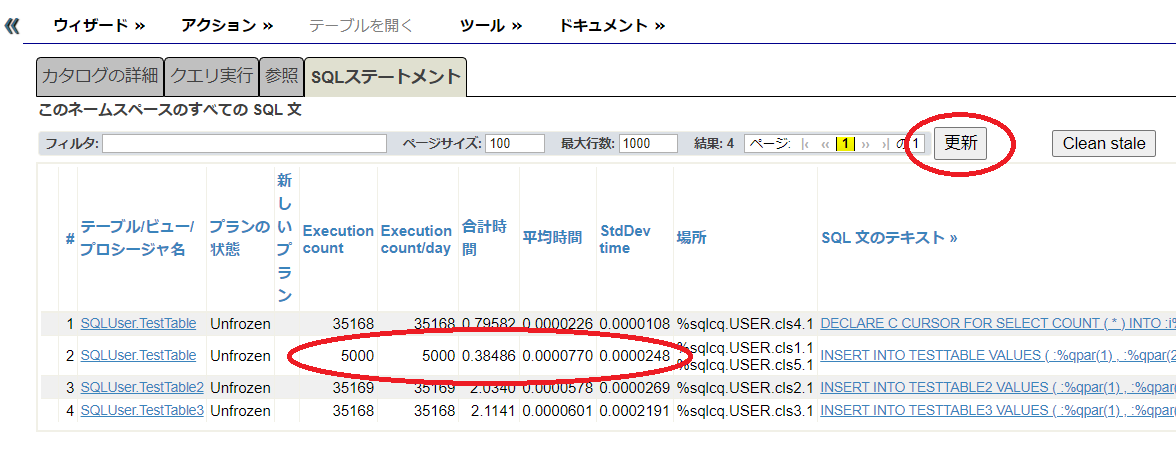
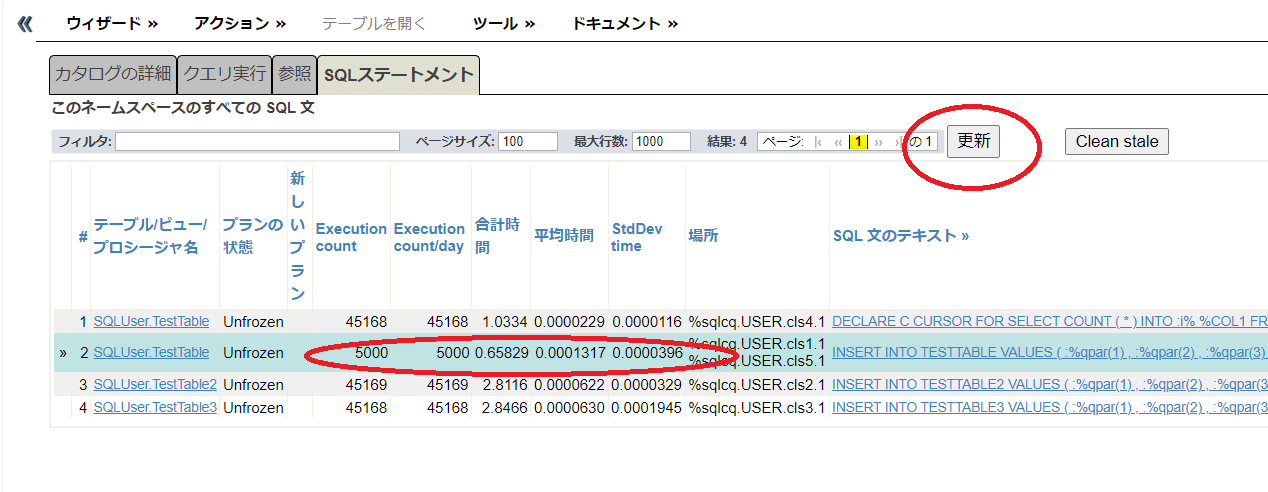
doc

Changed region(s): [[0.0, 0.0302, 1.0, 0.6048], [0.0306, 0.635, 1.0, 0.9071], [0.6429, 0.4536, 0.7959, 0.5443]]

diff --git a/README.MD b/README.MD
@@ -99,9 +99,9 @@ USER>
 1.  管理ポータルで[システムエクスプローラー]->[SQL]と進み、ネームスペースを使用しているデータベースに切り替え、さらに[SQLステートメント]タブを選択し、[更新]ボタンを押す。  これで、今、実行した計測内容が反映される。
 ![sqlstat4](images/sqlstat4.png)|
 
-この結果からは、INSERT INTO TESTTABLE VALUES...が5,000回実行され、合計時間:0.38486(秒)、平均時間:0.0000770(秒)、標準偏差:0.0000248であることがわかる。
+この結果からは、INSERT INTO TESTTABLE VALUES...が5,000回実行され、合計時間:0.65829(秒)、平均時間:0.0001317(秒)、標準偏差:0.0000396であることがわかる。
 
-> 0.0000770(秒)=0.077(ミリ秒)
+> 0.0001317(秒)=0.1317(ミリ秒)
 
 ## how to forward wsl2 port to an external host.
 
